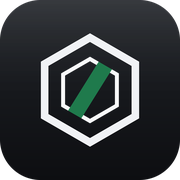
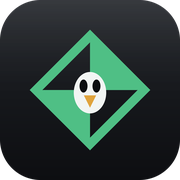
feat(marca): diamante armero con Tux en iconos y cabecera
Implementa el concepto que recomendé de los cinco: el rombo arlequinado de la
Black Armory con la cara de Tux en negativo (óvalo blanco, ojos oscuros y pico
ámbar). Tres manchas, así que sobrevive a 32 px y a 16 px.

Sustituye el hexágono con barra de forja en el icono de la app (.ico
multirresolución, PNG de 32 a 1024), el favicon, el apple-touch-icon y la marca
de la cabecera, que ahora comparten el mismo dibujo.

Es reversible en un fichero: si prefieres otro de los cinco conceptos
(out/design/logos.html), se cambia la marca y se regeneran los iconos con
`python tools/make_icons.py`. Lo implemento ahora para que la v0.5 no salga con
un icono provisional.

Changed region(s): [[0.1667, 0.1667, 0.8333, 0.8333]]

diff --git a/tools/make_icons.py b/tools/make_icons.py
@@ -24,8 +24,9 @@ PUBLIC = ROOT / "rust" / "web-ui" / "public"
 
 BG_TOP = (32, 35, 40)
 BG_BOTTOM = (13, 14, 17)
-MARK = (240, 242, 245)
-ACCENT = (31, 122, 76)  # verde "Grafito & Verde"
+MARK = (242, 245, 243)
+ACCENT = (79, 191, 133)  # verde del sistema "Grafito & Verde"
+AMBER = (224, 163, 60)  # pico de Tux
 
 
 def lerp(a, b, t):
@@ -66,25 +67,26 @@ def render(size=BASE):
     img.paste(Image.new("RGB", (s, s), (255, 255, 255)), (0, 0),
               Image.composite(sheen, Image.new("L", (s, s), 0), mask))
 
+    # marca: "diamante armero" — rombo arlequinado con la cabeza de Tux en
+    # negativo dentro. Dos cuadrantes opuestos en verde y la silueta blanca con
+    # pico ámbar: se lee a 16 px porque sólo hay tres manchas.
     cx = cy = s / 2
-    d.polygon(hexagon(cx, cy, s * 0.315, -90), outline=MARK + (255,), width=round(s * 0.042))
-    inner = hexagon(cx, cy, s * 0.185, -90)
-    d.polygon(inner, outline=MARK + (120,), width=round(s * 0.022))
+    half = s * 0.335
+    top, right = (cx, cy - half), (cx + half, cy)
+    bottom, left = (cx, cy + half), (cx - half, cy)
+    d.polygon([top, right, bottom, left], outline=ACCENT + (255,), width=round(s * 0.05))
+    d.polygon([top, right, (cx, cy)], fill=ACCENT + (255,))
+    d.polygon([left, bottom, (cx, cy)], fill=ACCENT + (255,))
 
-    # barra de forja, recortada al hexágono interior
-    ang = math.radians(-58)
-    w, length = s * 0.085, s * 0.42
-    dx, dy = math.cos(ang) * length / 2, math.sin(ang) * length / 2
-    nx, ny = -math.sin(ang) * w / 2, math.cos(ang) * w / 2
-    bar = Image.new("RGBA", (s, s), (0, 0, 0, 0))
-    ImageDraw.Draw(bar).polygon(
-        [(cx - dx + nx, cy - dy + ny), (cx + dx + nx, cy + dy + ny),
-         (cx + dx - nx, cy + dy - ny), (cx - dx - nx, cy - dy - ny)],
-        fill=ACCENT + (255,),
+    # cara de Tux: óvalo blanco con ojos oscuros y pico ámbar
+    d.ellipse(
+        [cx - s * 0.090, cy - s * 0.100, cx + s * 0.090, cy + s * 0.130],
+        fill=MARK + (255,),
     )
-    clip = Image.new("L", (s, s), 0)
-    ImageDraw.Draw(clip).polygon(inner, fill=255)
-    img.paste(bar, (0, 0), Image.composite(bar.split()[3], Image.new("L", (s, s), 0), clip))
+    d.ellipse([cx - s * 0.058, cy - s * 0.058, cx - s * 0.014, cy + s * 0.014], fill=BG_BOTTOM + (255,))
+    d.ellipse([cx + s * 0.014, cy - s * 0.058, cx + s * 0.058, cy + s * 0.014], fill=BG_BOTTOM + (255,))
+    d.polygon([(cx - s * 0.034, cy + s * 0.030), (cx + s * 0.034, cy + s * 0.030),
+               (cx, cy + s * 0.098)], fill=AMBER + (255,))
 
     return img.resize((size, size), Image.LANCZOS)
 

diff --git a/rust/web-ui/src/app.rs b/rust/web-ui/src/app.rs
@@ -76,22 +76,23 @@ pub fn App() -> impl IntoView {
             <header>
                 <span class="brand">
                     <svg class="mark" viewBox="0 0 120 120" aria-hidden="true">
-                        <polygon points="60,6 107,33 107,87 60,114 13,87 13,33" fill="var(--accent)" />
-                        <polygon
-                            points="60,27 89,44 89,76 60,93 31,76 31,44"
-                            fill="none"
-                            stroke="var(--on-accent)"
-                            stroke-opacity=".5"
-                            stroke-width="7"
-                        />
-                        <rect
-                            x="40"
-                            y="55"
-                            width="42"
-                            height="10"
-                            fill="var(--on-accent)"
-                            transform="rotate(-34 60 60)"
-                        />
+                        <g transform="rotate(45 60 60)">
+                            <rect
+                                x="16"
+                                y="16"
+                                width="88"
+                                height="88"
+                                fill="none"
+                                stroke="var(--accent)"
+                                stroke-width="9"
+                            />
+                            <rect x="16" y="16" width="44" height="44" fill="var(--accent)" />
+                            <rect x="60" y="60" width="44" height="44" fill="var(--accent)" />
+                        </g>
+                        <ellipse cx="60" cy="61.5" rx="10.8" ry="13.8" fill="var(--ink)" />
+                        <ellipse cx="54.6" cy="55" rx="2.6" ry="4.3" fill="var(--bg)" />
+                        <ellipse cx="65.4" cy="55" rx="2.6" ry="4.3" fill="var(--bg)" />
+                        <polygon points="56,63.6 64,63.6 60,71.7" fill="#e0a33c" />
                     </svg>
                     "DistroForge"
                 </span>
